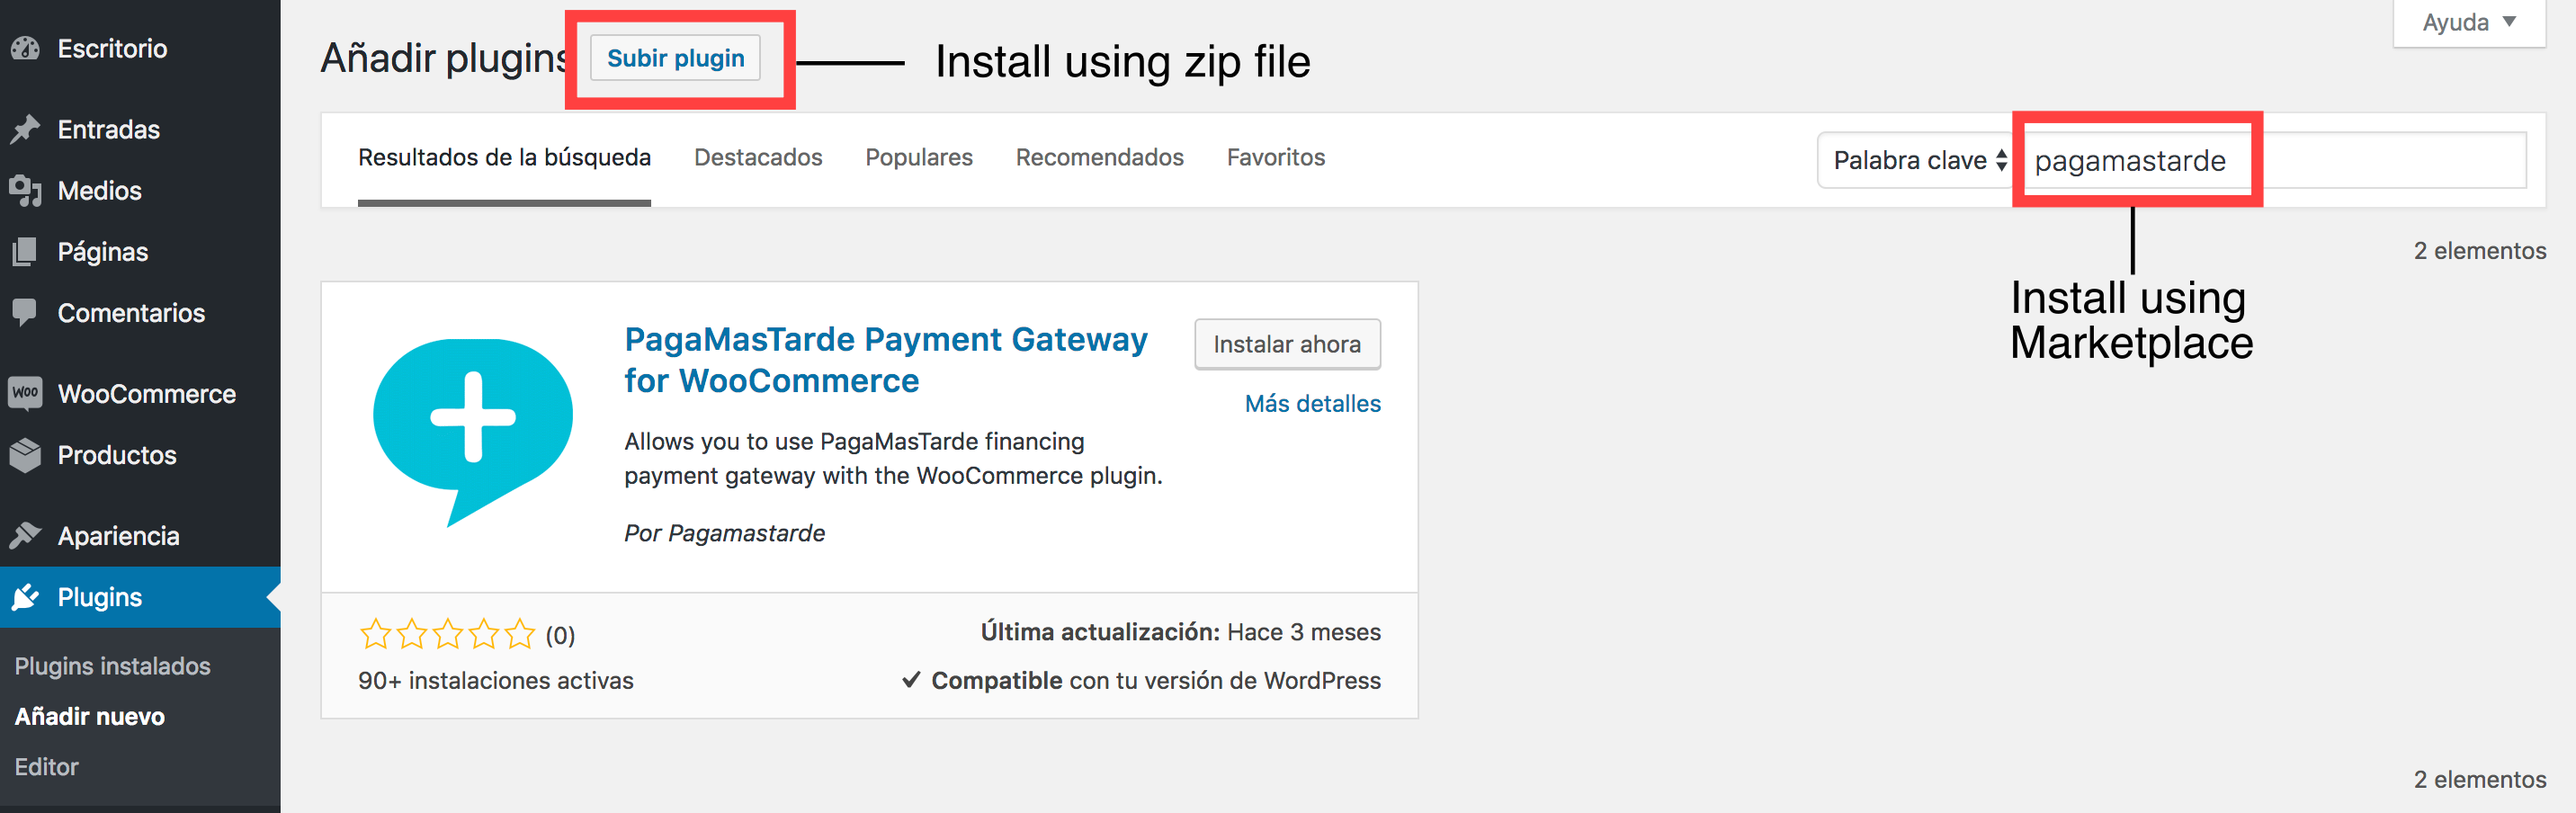
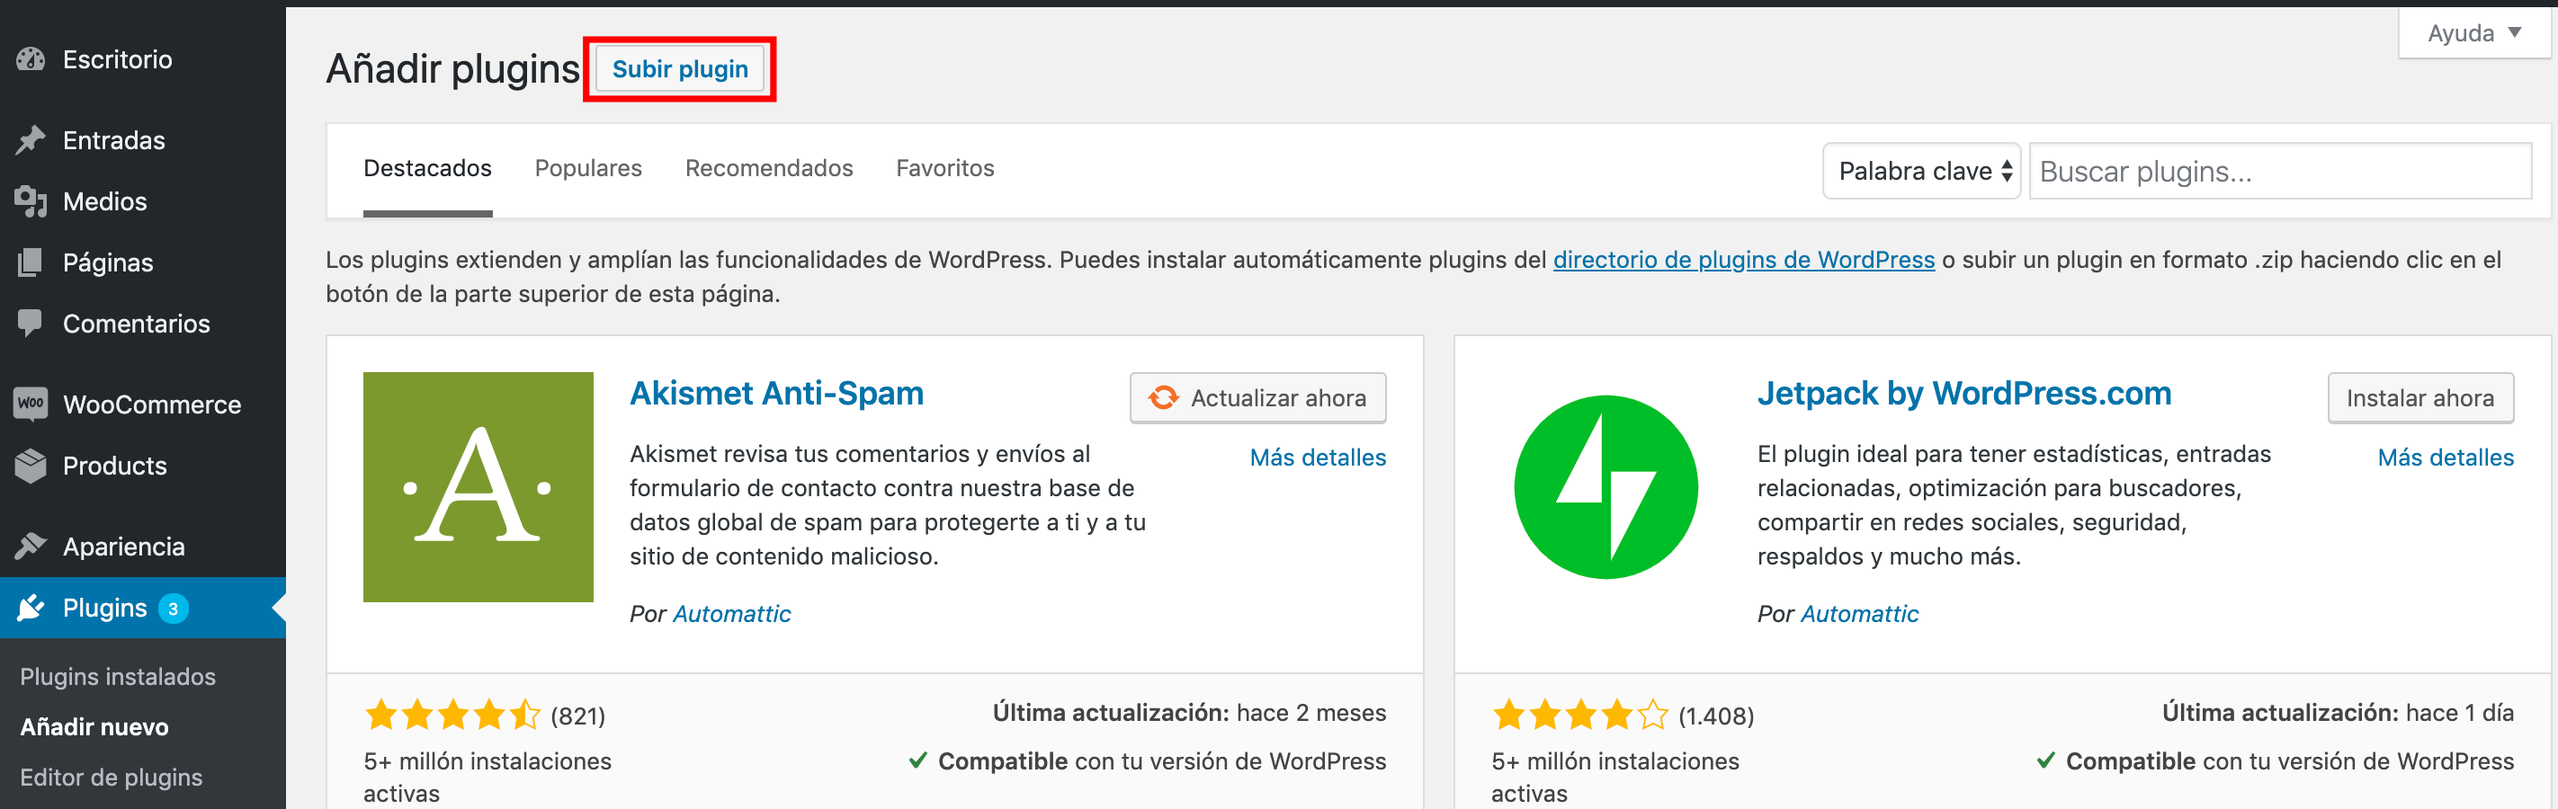
Improve installation

diff --git a/Documentation/installation.md b/Documentation/installation.md
@@ -4,22 +4,13 @@
 
 To install the plugin of Pagantis in your Woocommerce shop, we need to open the Woocommerce admin panel and follow the next steps:
 
-#### Common steps
+#### Installation using zip file
 1. Plugins => Add new
 ![Step 1](./woocommerce_installation_1.png?raw=true "Step 1")
 
 2. Choose installation method.
-
 ![Step 2](./woocommerce_installation_2.png?raw=true "Step 2")
 
-#### Installation using marketplace
-3. Click on "Install now"
-![Step 3](./woocommerce_installation_3a.png?raw=true "Step 3")
-
-4. Click on "Enable"
-![Step 4](./woocommerce_installation_4a.png?raw=true "Step 4")
-
-#### Installation using zip file
 3. Download the zip file from [here](https://github.com/pagantis/woocommerce/releases/latest). The name could be different according the last version of the plugin(Vx.x.x)
 ![Step 3](./woocommerce_installation_3b.png?raw=true "Step 3")
 
